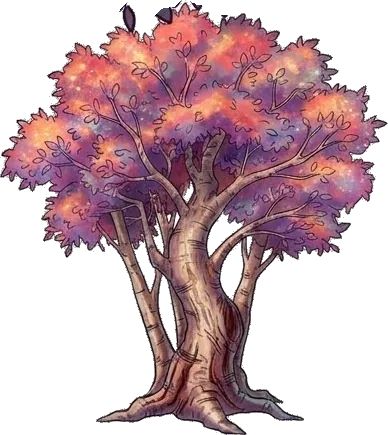
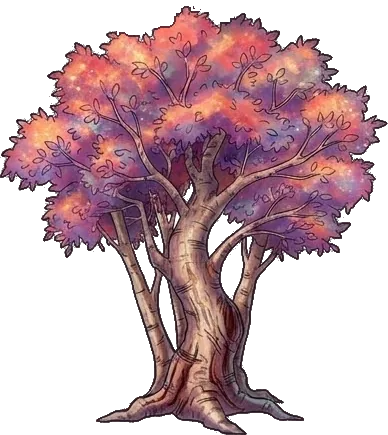
Bloodwood trees: remove stray dark leaves at the top of the small trees
Claude-Session: https://claude.ai/code/session_016iBLHZqgtWrdG3jWmShjEG

diff --git a/index.html b/index.html
@@ -49,7 +49,7 @@ body{display:flex;justify-content:center}
 
 <script>
 const ATLAS_SRC="assets/lum_atlas_v5.webp?v=b5d321dc8e";
-const ASSET_SRC={"ground": "assets/ground.webp?v=c61ee31f5b", "rock1": "assets/rock1.webp?v=4e677f3831", "rock2": "assets/rock2.webp?v=7dd0569dcb", "rock3": "assets/rock3.webp?v=56b967ad67", "rock4": "assets/rock4.webp?v=0d1af80431", "cottage": "assets/cottage.webp?v=698443d54d", "cottage_win": "assets/cottage_win.webp?v=7aa924e07f", "cottage_runes": "assets/cottage_runes.webp?v=fedf57d4f3", "well2": "assets/well2.webp?v=af52a369ca", "signpost": "assets/signpost.webp?v=58d6cbc3c9", "runetree": "assets/runetree.webp?v=882fef9528", "runetree_runes": "assets/runetree_runes.webp?v=32432a9566", "forest_bg": "assets/forest_bg.webp?v=48e7441431", "wellroom": "assets/wellroom.webp?v=4c525760c2", "wellroom_runes": "assets/wellroom_runes.webp?v=f42530f4f2", "wellroom_nobucket": "assets/wellroom_nobucket.webp?v=f47f13a7c8", "bucket_hat": "assets/bucket_hat.webp?v=a26814e8f8", "bucket_worn": "assets/bucket_worn.webp?v=a493a15958", "jelly_idle": "assets/jelly_idle.webp?v=71fed74136", "jelly_lunge": "assets/jelly_lunge.webp?v=92b0dc4343", "studyroom": "assets/studyroom.webp?v=a45726d36c", "grave0": "assets/grave0.webp?v=ad382cac7a", "grave1": "assets/grave1.webp?v=cefcf7ebac", "grave2": "assets/grave2.webp?v=9878aa3e55", "grave3": "assets/grave3.webp?v=a7a223d89e", "grave4": "assets/grave4.webp?v=a1028b8b90", "grave5": "assets/grave5.webp?v=0e02f5ad47", "grave6": "assets/grave6.webp?v=d0d80e2012", "grave7": "assets/grave7.webp?v=63f26d00aa", "grave8": "assets/grave8.webp?v=23e439ffe1", "grave9": "assets/grave9.webp?v=e07c5d7e34", "grave10": "assets/grave10.webp?v=fc3c50105c", "grave11": "assets/grave11.webp?v=8c2b60ce50", "bedroom": "assets/bedroom.webp?v=2225ec5dde", "sleep_cos": "assets/sleep_cos.webp?v=1b3af569b0", "sleep_lum": "assets/sleep_lum.webp?v=cd742dd436", "shoproom": "assets/shoproom.webp?v=79fc4857bd", "pondroom": "assets/pondroom.webp?v=50b5134a4a", "pcol_l": "assets/pcol_l.webp?v=e9bb5ccd70", "pcol_r": "assets/pcol_r.webp?v=dbb98c3bbf", "shed": "assets/shed.webp?v=543a9519de", "shedroom": "assets/shedroom.webp?v=f4136aef1d", "mimic": "assets/mimic.webp?v=b4eccb2cc0", "skel": "assets/skel.webp?v=6bdb7d42b9", "fokalur": "assets/fokalur.webp?v=32e8fdde12", "gate": "assets/gate.webp?v=b13c3b515c", "hut": "assets/hut.webp?v=93968f3788", "icon_potion": "assets/icon_potion.webp?v=ead5b0d648", "icon_pouch_seal": "assets/icon_pouch_seal.webp?v=f5895d2c6b", "icon_pouch": "assets/icon_pouch.webp?v=1228805e30", "icon_pouch_rose": "assets/icon_pouch_rose.webp?v=9ce159b238", "icon_pouch_crystal": "assets/icon_pouch_crystal.webp?v=0f51c72ecd", "icon_stick": "assets/icon_stick.webp?v=7da6e80825", "icon_rod": "assets/icon_rod.webp?v=500c8ad5de", "icon_staff_crystal": "assets/icon_staff_crystal.webp?v=2fadb8e7cf", "icon_staff_unicorn": "assets/icon_staff_unicorn.webp?v=19aca18031", "icon_sword_wood": "assets/icon_sword_wood.webp?v=51208a1356", "icon_sword_iron": "assets/icon_sword_iron.webp?v=5d4e663c8b", "icon_blade_dark": "assets/icon_blade_dark.webp?v=f39a2c7691", "icon_sword_long": "assets/icon_sword_long.webp?v=e2ed18cc86", "icon_sword_rune": "assets/icon_sword_rune.webp?v=0950c74e57", "icon_boots_leather": "assets/icon_boots_leather.webp?v=735092ee0b", "icon_boots_rubber_green": "assets/icon_boots_rubber_green.webp?v=698906df6b", "icon_boots_chain": "assets/icon_boots_chain.webp?v=024ff688e1", "icon_boots_plate": "assets/icon_boots_plate.webp?v=74076691fc", "icon_boots_winged": "assets/icon_boots_winged.webp?v=8c4553d310", "icon_cloak_apprentice": "assets/icon_cloak_apprentice.webp?v=1d1a6ddb1f", "icon_cloak_undine": "assets/icon_cloak_undine.webp?v=940789d635", "icon_cloak_green": "assets/icon_cloak_green.webp?v=76adbc8f83", "icon_cloak_grey": "assets/icon_cloak_grey.webp?v=d59e43efdb", "icon_cape_stars": "assets/icon_cape_stars.webp?v=d6e7732a4b", "icon_cape_lion_red": "assets/icon_cape_lion_red.webp?v=71308a4082", "icon_cape_lion_white": "assets/icon_cape_lion_white.webp?v=898859a526", "icon_cape_wings": "assets/icon_cape_wings.webp?v=2f7ea8ce7c", "slugking": "assets/slugking.webp?v=2f01c887f5", "jelly_idle_moss": "assets/jelly_idle_moss.webp?v=86cd24ecd3", "jelly_lunge_moss": "assets/jelly_lunge_moss.webp?v=bb5e70117f", "rskel": "assets/rskel.webp?v=c21afe8d1f", "wisp": "assets/wisp.webp?v=5b64d7379a", "vane": "assets/vane.webp?v=ddc4dc4c1e", "reaper": "assets/reaper.webp?v=2d19da05f6", "vanehut": "assets/vanehut.webp?v=27acb20d56", "ing_duskberry": "assets/ing_duskberry.webp?v=227fa12fae", "ing_dewberry": "assets/ing_dewberry.webp?v=7acbb8f24a", "ing_emberberry": "assets/ing_emberberry.webp?v=182192d25f", "ing_leavesB5": "assets/ing_leavesB5.webp?v=670e67f484", "ing_slime": "assets/ing_slime.webp?v=2d52e374b9", "ing_bones": "assets/ing_bones.webp?v=d2f5252a5b", "ing_twig": "assets/ing_twig.webp?v=ce341bff86", "tool_lantern": "assets/tool_lantern.webp?v=b0badf9ba0", "tool_lantern_ornate": "assets/tool_lantern_ornate.webp?v=6d22a8b9d8", "tool_rune_compass": "assets/tool_rune_compass.webp?v=3d79732549", "emote_grab": "assets/emote_grab.webp?v=0210ee5f87", "icon4_boots_fur": "assets/icon4_boots_fur.webp?v=257380106a", "spider": "assets/spider.webp?v=2082b59414", "bat": "assets/bat.webp?v=8384f2ed44", "fox": "assets/fox.webp?v=d1d5a33797", "flora": "assets/flora.webp?v=b2984d2fc2", "bramble_arch": "assets/bramble_arch.webp?v=f4f04cdb52", "bramble_hedge": "assets/bramble_hedge.webp?v=d4eccc44e3", "oak_big": "assets/oak_big.webp?v=a31af37e20", "webtree": "assets/webtree.webp?v=9c025b735f", "bwood_big": "assets/bwood_big.webp?v=cfb9ccc351", "bwood_small_a": "assets/bwood_small_a.webp?v=33d4334dc6", "bwood_small_b": "assets/bwood_small_b.webp?v=85c53e90a1", "bwood2_big": "assets/bwood2_big.webp?v=fdec0206c8", "bwood2_small_a": "assets/bwood2_small_a.webp?v=423d3b4f74", "bwood2_small_b": "assets/bwood2_small_b.webp?v=fc8a2edaac", "floor_st": "assets/floor_st.webp?v=c9eb0963f5", "jak": "assets/jak.webp?v=2e39bccff5", "icon_axe_wood": "assets/icon_axe_wood.webp?v=c531e310b1", "icon_axe_double_iron": "assets/icon_axe_double_iron.webp?v=1b08693001", "icon_axe_pearl": "assets/icon_axe_pearl.webp?v=1dfe41cb0b", "icon_axe_rune_gold": "assets/icon_axe_rune_gold.webp?v=aac528fea8", "icon_axe_jeweled": "assets/icon_axe_jeweled.webp?v=ea9c4a26e0", "icon_axe_broken": "assets/icon_axe_broken.webp?v=e1893bb616", "icon_axe_rusty": "assets/icon_axe_rusty.webp?v=1378b7b200", "icon_axe_leaf": "assets/icon_axe_leaf.webp?v=a4488d45e3", "icon_axe_bearded": "assets/icon_axe_bearded.webp?v=9af8e4a3ca", "icon_axe_steel": "assets/icon_axe_steel.webp?v=471dd46f27", "icon_axe_frost": "assets/icon_axe_frost.webp?v=302d3e06ea", "fox_red": "assets/fox_red.webp?v=9e66ea9c96", "jelly_idle_red": "assets/jelly_idle_red.webp?v=43ea16fbfd", "jelly_lunge_red": "assets/jelly_lunge_red.webp?v=d978f8f86e", "spider_dark": "assets/spider_dark.webp?v=dd9cccd6da", "thorngate": "assets/thorngate.webp?v=42c0f07e5d", "rose_bud": "assets/rose_bud.webp?v=bcef1e8f75", "rose_open": "assets/rose_open.webp?v=a0242c359d", "rose_twin": "assets/rose_twin.webp?v=e2297a7a91", "thdec_stickweb": "assets/thdec_stickweb.webp?v=a0b5d29ef3", "thdec_mushweb": "assets/thdec_mushweb.webp?v=ef66bb87d1", "thdec_litterweb": "assets/thdec_litterweb.webp?v=55159b7bc4", "thdec_fernweb": "assets/thdec_fernweb.webp?v=835280ac84", "thdec_smallweb": "assets/thdec_smallweb.webp?v=ca6202bcd2", "thdec_log": "assets/thdec_log.webp?v=366093c3a6", "icon3_mortar_clay": "assets/icon3_mortar_clay.webp?v=79428386fe", "icon4_sun_bottle": "assets/icon4_sun_bottle.webp?v=814504de18", "icon3_frost_bowl": "assets/icon3_frost_bowl.webp?v=0e086c9798", "icon3_pastel_powders": "assets/icon3_pastel_powders.webp?v=f431b705e2", "icon2_cross_wood": "assets/icon2_cross_wood.webp?v=161f6ec751", "icon2_key_gold": "assets/icon2_key_gold.webp?v=8ff3771dd5", "hollow": "assets/hollow.webp?v=dfa726d993", "dun5": "assets/dun5.webp?v=85029c1dff", "dun4": "assets/dun4.webp?v=b46827d446", "dun3": "assets/dun3.webp?v=7a88b0e860", "dun2": "assets/dun2.webp?v=21d09cc1d9", "dun1": "assets/dun1.webp?v=06e6dc99cc", "acc_heart_ring": "assets/acc_heart_ring.webp?v=5bc343177a", "acc_braid_ring": "assets/acc_braid_ring.webp?v=ef878f119c", "acc_moon_necklace": "assets/acc_moon_necklace.webp?v=e57426d856", "acc_slime_ring": "assets/acc_slime_ring.webp?v=01154880ae", "acc_amethyst": "assets/acc_amethyst.webp?v=459ad65fc8", "acc_sunmoon_medal": "assets/acc_sunmoon_medal.webp?v=0ebb4c8567", "acc_lion_ring": "assets/acc_lion_ring.webp?v=d803438586", "acc_shell_necklace": "assets/acc_shell_necklace.webp?v=eb822dcaef", "acc_wing_brooch": "assets/acc_wing_brooch.webp?v=9e7d87c59b", "acc_moonstone_ring": "assets/acc_moonstone_ring.webp?v=ffda303e15", "sfg_chest": "assets/sfg_chest.webp?v=a472570ab1", "sfg_table": "assets/sfg_table.webp?v=013527fc10", "sfg_tableleg": "assets/sfg_tableleg.webp?v=1ad782e189", "sfg_side": "assets/sfg_side.webp?v=a4a3f2284f", "sfg_lectern": "assets/sfg_lectern.webp?v=c0df8fec54", "sfg_roots": "assets/sfg_roots.webp?v=c59040b279", "birch1": "assets/birch1.webp?v=b0ea24106f", "birch2": "assets/birch2.webp?v=2dd033eac7", "birch3": "assets/birch3.webp?v=e64553ecbd", "willow1": "assets/willow1.webp?v=98786f0c84", "cobble_strip": "assets/cobble_strip.webp?v=284855081b", "cobble_runes": "assets/cobble_runes.webp?v=07a4cad76e", "bridge0": "assets/bridge0.webp?v=c930b521f8", "bridge1": "assets/bridge1.webp?v=8e675faec7", "bridge2": "assets/bridge2.webp?v=65bc61c470", "bridge3": "assets/bridge3.webp?v=153e2f5c59", "bridge4": "assets/bridge4.webp?v=b6ff9fef90", "drained0": "assets/drained0.webp?v=dee278254d", "drained1": "assets/drained1.webp?v=c38f30e4a2", "drained2": "assets/drained2.webp?v=c2abd46393", "drained3": "assets/drained3.webp?v=d0408dce90", "drained4": "assets/drained4.webp?v=49fe89ce29", "drained5": "assets/drained5.webp?v=8b2a410ea1", "drained6": "assets/drained6.webp?v=b735f267b4", "drained7": "assets/drained7.webp?v=aefa2993f7", "drained8": "assets/drained8.webp?v=e853833327", "drained9": "assets/drained9.webp?v=9a5541fe81", "shrub0": "assets/shrub0.webp?v=f9f7df7aac", "shrub1": "assets/shrub1.webp?v=f4825b0d48", "shrub2": "assets/shrub2.webp?v=b0edbbd898", "shrub3": "assets/shrub3.webp?v=bc7a089a89", "shrub4": "assets/shrub4.webp?v=bb66d76d2e", "shrub5": "assets/shrub5.webp?v=ffbae35557", "shrub6": "assets/shrub6.webp?v=1c234a4c17", "shrub7": "assets/shrub7.webp?v=5b1a8119f9", "shrub8": "assets/shrub8.webp?v=a937edbbf3", "shrub9": "assets/shrub9.webp?v=dfb2f54698", "shrub10": "assets/shrub10.webp?v=5c2dd38d41", "shrub11": "assets/shrub11.webp?v=3faa1b4736", "bird0": "assets/bird0.webp?v=7d5d2404e5", "bird1": "assets/bird1.webp?v=eb12c73b19", "bird2": "assets/bird2.webp?v=ca02415237", "bird3": "assets/bird3.webp?v=42efa7eb02", "bird4": "assets/bird4.webp?v=7a9329e236", "bird5": "assets/bird5.webp?v=90bd3aa6a3", "bird6": "assets/bird6.webp?v=0a764f8ed6", "bird7": "assets/bird7.webp?v=04e3aa6d61", "bird8": "assets/bird8.webp?v=11cac9e48b", "bird9": "assets/bird9.webp?v=209732f271", "bird10": "assets/bird10.webp?v=518afeccc0", "bird11": "assets/bird11.webp?v=41c18c5083", "bird12": "assets/bird12.webp?v=9250bb7453", "topi_cube": "assets/topi_cube.webp?v=1fc6082fd5", "topi_ball": "assets/topi_ball.webp?v=78a3cfcc82", "topi_spiral": "assets/topi_spiral.webp?v=d6ac5cd38a", "topi_cone": "assets/topi_cone.webp?v=67e11f2900"};
+const ASSET_SRC={"ground": "assets/ground.webp?v=c61ee31f5b", "rock1": "assets/rock1.webp?v=4e677f3831", "rock2": "assets/rock2.webp?v=7dd0569dcb", "rock3": "assets/rock3.webp?v=56b967ad67", "rock4": "assets/rock4.webp?v=0d1af80431", "cottage": "assets/cottage.webp?v=698443d54d", "cottage_win": "assets/cottage_win.webp?v=7aa924e07f", "cottage_runes": "assets/cottage_runes.webp?v=fedf57d4f3", "well2": "assets/well2.webp?v=af52a369ca", "signpost": "assets/signpost.webp?v=58d6cbc3c9", "runetree": "assets/runetree.webp?v=882fef9528", "runetree_runes": "assets/runetree_runes.webp?v=32432a9566", "forest_bg": "assets/forest_bg.webp?v=48e7441431", "wellroom": "assets/wellroom.webp?v=4c525760c2", "wellroom_runes": "assets/wellroom_runes.webp?v=f42530f4f2", "wellroom_nobucket": "assets/wellroom_nobucket.webp?v=f47f13a7c8", "bucket_hat": "assets/bucket_hat.webp?v=a26814e8f8", "bucket_worn": "assets/bucket_worn.webp?v=a493a15958", "jelly_idle": "assets/jelly_idle.webp?v=71fed74136", "jelly_lunge": "assets/jelly_lunge.webp?v=92b0dc4343", "studyroom": "assets/studyroom.webp?v=a45726d36c", "grave0": "assets/grave0.webp?v=ad382cac7a", "grave1": "assets/grave1.webp?v=cefcf7ebac", "grave2": "assets/grave2.webp?v=9878aa3e55", "grave3": "assets/grave3.webp?v=a7a223d89e", "grave4": "assets/grave4.webp?v=a1028b8b90", "grave5": "assets/grave5.webp?v=0e02f5ad47", "grave6": "assets/grave6.webp?v=d0d80e2012", "grave7": "assets/grave7.webp?v=63f26d00aa", "grave8": "assets/grave8.webp?v=23e439ffe1", "grave9": "assets/grave9.webp?v=e07c5d7e34", "grave10": "assets/grave10.webp?v=fc3c50105c", "grave11": "assets/grave11.webp?v=8c2b60ce50", "bedroom": "assets/bedroom.webp?v=2225ec5dde", "sleep_cos": "assets/sleep_cos.webp?v=1b3af569b0", "sleep_lum": "assets/sleep_lum.webp?v=cd742dd436", "shoproom": "assets/shoproom.webp?v=79fc4857bd", "pondroom": "assets/pondroom.webp?v=50b5134a4a", "pcol_l": "assets/pcol_l.webp?v=e9bb5ccd70", "pcol_r": "assets/pcol_r.webp?v=dbb98c3bbf", "shed": "assets/shed.webp?v=543a9519de", "shedroom": "assets/shedroom.webp?v=f4136aef1d", "mimic": "assets/mimic.webp?v=b4eccb2cc0", "skel": "assets/skel.webp?v=6bdb7d42b9", "fokalur": "assets/fokalur.webp?v=32e8fdde12", "gate": "assets/gate.webp?v=b13c3b515c", "hut": "assets/hut.webp?v=93968f3788", "icon_potion": "assets/icon_potion.webp?v=ead5b0d648", "icon_pouch_seal": "assets/icon_pouch_seal.webp?v=f5895d2c6b", "icon_pouch": "assets/icon_pouch.webp?v=1228805e30", "icon_pouch_rose": "assets/icon_pouch_rose.webp?v=9ce159b238", "icon_pouch_crystal": "assets/icon_pouch_crystal.webp?v=0f51c72ecd", "icon_stick": "assets/icon_stick.webp?v=7da6e80825", "icon_rod": "assets/icon_rod.webp?v=500c8ad5de", "icon_staff_crystal": "assets/icon_staff_crystal.webp?v=2fadb8e7cf", "icon_staff_unicorn": "assets/icon_staff_unicorn.webp?v=19aca18031", "icon_sword_wood": "assets/icon_sword_wood.webp?v=51208a1356", "icon_sword_iron": "assets/icon_sword_iron.webp?v=5d4e663c8b", "icon_blade_dark": "assets/icon_blade_dark.webp?v=f39a2c7691", "icon_sword_long": "assets/icon_sword_long.webp?v=e2ed18cc86", "icon_sword_rune": "assets/icon_sword_rune.webp?v=0950c74e57", "icon_boots_leather": "assets/icon_boots_leather.webp?v=735092ee0b", "icon_boots_rubber_green": "assets/icon_boots_rubber_green.webp?v=698906df6b", "icon_boots_chain": "assets/icon_boots_chain.webp?v=024ff688e1", "icon_boots_plate": "assets/icon_boots_plate.webp?v=74076691fc", "icon_boots_winged": "assets/icon_boots_winged.webp?v=8c4553d310", "icon_cloak_apprentice": "assets/icon_cloak_apprentice.webp?v=1d1a6ddb1f", "icon_cloak_undine": "assets/icon_cloak_undine.webp?v=940789d635", "icon_cloak_green": "assets/icon_cloak_green.webp?v=76adbc8f83", "icon_cloak_grey": "assets/icon_cloak_grey.webp?v=d59e43efdb", "icon_cape_stars": "assets/icon_cape_stars.webp?v=d6e7732a4b", "icon_cape_lion_red": "assets/icon_cape_lion_red.webp?v=71308a4082", "icon_cape_lion_white": "assets/icon_cape_lion_white.webp?v=898859a526", "icon_cape_wings": "assets/icon_cape_wings.webp?v=2f7ea8ce7c", "slugking": "assets/slugking.webp?v=2f01c887f5", "jelly_idle_moss": "assets/jelly_idle_moss.webp?v=86cd24ecd3", "jelly_lunge_moss": "assets/jelly_lunge_moss.webp?v=bb5e70117f", "rskel": "assets/rskel.webp?v=c21afe8d1f", "wisp": "assets/wisp.webp?v=5b64d7379a", "vane": "assets/vane.webp?v=ddc4dc4c1e", "reaper": "assets/reaper.webp?v=2d19da05f6", "vanehut": "assets/vanehut.webp?v=27acb20d56", "ing_duskberry": "assets/ing_duskberry.webp?v=227fa12fae", "ing_dewberry": "assets/ing_dewberry.webp?v=7acbb8f24a", "ing_emberberry": "assets/ing_emberberry.webp?v=182192d25f", "ing_leavesB5": "assets/ing_leavesB5.webp?v=670e67f484", "ing_slime": "assets/ing_slime.webp?v=2d52e374b9", "ing_bones": "assets/ing_bones.webp?v=d2f5252a5b", "ing_twig": "assets/ing_twig.webp?v=ce341bff86", "tool_lantern": "assets/tool_lantern.webp?v=b0badf9ba0", "tool_lantern_ornate": "assets/tool_lantern_ornate.webp?v=6d22a8b9d8", "tool_rune_compass": "assets/tool_rune_compass.webp?v=3d79732549", "emote_grab": "assets/emote_grab.webp?v=0210ee5f87", "icon4_boots_fur": "assets/icon4_boots_fur.webp?v=257380106a", "spider": "assets/spider.webp?v=2082b59414", "bat": "assets/bat.webp?v=8384f2ed44", "fox": "assets/fox.webp?v=d1d5a33797", "flora": "assets/flora.webp?v=b2984d2fc2", "bramble_arch": "assets/bramble_arch.webp?v=f4f04cdb52", "bramble_hedge": "assets/bramble_hedge.webp?v=d4eccc44e3", "oak_big": "assets/oak_big.webp?v=a31af37e20", "webtree": "assets/webtree.webp?v=9c025b735f", "bwood_big": "assets/bwood_big.webp?v=cfb9ccc351", "bwood_small_a": "assets/bwood_small_a.webp?v=42a6989f45", "bwood_small_b": "assets/bwood_small_b.webp?v=b3c84a95b2", "bwood2_big": "assets/bwood2_big.webp?v=fdec0206c8", "bwood2_small_a": "assets/bwood2_small_a.webp?v=423d3b4f74", "bwood2_small_b": "assets/bwood2_small_b.webp?v=66703a07cb", "floor_st": "assets/floor_st.webp?v=c9eb0963f5", "jak": "assets/jak.webp?v=2e39bccff5", "icon_axe_wood": "assets/icon_axe_wood.webp?v=c531e310b1", "icon_axe_double_iron": "assets/icon_axe_double_iron.webp?v=1b08693001", "icon_axe_pearl": "assets/icon_axe_pearl.webp?v=1dfe41cb0b", "icon_axe_rune_gold": "assets/icon_axe_rune_gold.webp?v=aac528fea8", "icon_axe_jeweled": "assets/icon_axe_jeweled.webp?v=ea9c4a26e0", "icon_axe_broken": "assets/icon_axe_broken.webp?v=e1893bb616", "icon_axe_rusty": "assets/icon_axe_rusty.webp?v=1378b7b200", "icon_axe_leaf": "assets/icon_axe_leaf.webp?v=a4488d45e3", "icon_axe_bearded": "assets/icon_axe_bearded.webp?v=9af8e4a3ca", "icon_axe_steel": "assets/icon_axe_steel.webp?v=471dd46f27", "icon_axe_frost": "assets/icon_axe_frost.webp?v=302d3e06ea", "fox_red": "assets/fox_red.webp?v=9e66ea9c96", "jelly_idle_red": "assets/jelly_idle_red.webp?v=43ea16fbfd", "jelly_lunge_red": "assets/jelly_lunge_red.webp?v=d978f8f86e", "spider_dark": "assets/spider_dark.webp?v=dd9cccd6da", "thorngate": "assets/thorngate.webp?v=42c0f07e5d", "rose_bud": "assets/rose_bud.webp?v=bcef1e8f75", "rose_open": "assets/rose_open.webp?v=a0242c359d", "rose_twin": "assets/rose_twin.webp?v=e2297a7a91", "thdec_stickweb": "assets/thdec_stickweb.webp?v=a0b5d29ef3", "thdec_mushweb": "assets/thdec_mushweb.webp?v=ef66bb87d1", "thdec_litterweb": "assets/thdec_litterweb.webp?v=55159b7bc4", "thdec_fernweb": "assets/thdec_fernweb.webp?v=835280ac84", "thdec_smallweb": "assets/thdec_smallweb.webp?v=ca6202bcd2", "thdec_log": "assets/thdec_log.webp?v=366093c3a6", "icon3_mortar_clay": "assets/icon3_mortar_clay.webp?v=79428386fe", "icon4_sun_bottle": "assets/icon4_sun_bottle.webp?v=814504de18", "icon3_frost_bowl": "assets/icon3_frost_bowl.webp?v=0e086c9798", "icon3_pastel_powders": "assets/icon3_pastel_powders.webp?v=f431b705e2", "icon2_cross_wood": "assets/icon2_cross_wood.webp?v=161f6ec751", "icon2_key_gold": "assets/icon2_key_gold.webp?v=8ff3771dd5", "hollow": "assets/hollow.webp?v=dfa726d993", "dun5": "assets/dun5.webp?v=85029c1dff", "dun4": "assets/dun4.webp?v=b46827d446", "dun3": "assets/dun3.webp?v=7a88b0e860", "dun2": "assets/dun2.webp?v=21d09cc1d9", "dun1": "assets/dun1.webp?v=06e6dc99cc", "acc_heart_ring": "assets/acc_heart_ring.webp?v=5bc343177a", "acc_braid_ring": "assets/acc_braid_ring.webp?v=ef878f119c", "acc_moon_necklace": "assets/acc_moon_necklace.webp?v=e57426d856", "acc_slime_ring": "assets/acc_slime_ring.webp?v=01154880ae", "acc_amethyst": "assets/acc_amethyst.webp?v=459ad65fc8", "acc_sunmoon_medal": "assets/acc_sunmoon_medal.webp?v=0ebb4c8567", "acc_lion_ring": "assets/acc_lion_ring.webp?v=d803438586", "acc_shell_necklace": "assets/acc_shell_necklace.webp?v=eb822dcaef", "acc_wing_brooch": "assets/acc_wing_brooch.webp?v=9e7d87c59b", "acc_moonstone_ring": "assets/acc_moonstone_ring.webp?v=ffda303e15", "sfg_chest": "assets/sfg_chest.webp?v=a472570ab1", "sfg_table": "assets/sfg_table.webp?v=013527fc10", "sfg_tableleg": "assets/sfg_tableleg.webp?v=1ad782e189", "sfg_side": "assets/sfg_side.webp?v=a4a3f2284f", "sfg_lectern": "assets/sfg_lectern.webp?v=c0df8fec54", "sfg_roots": "assets/sfg_roots.webp?v=c59040b279", "birch1": "assets/birch1.webp?v=b0ea24106f", "birch2": "assets/birch2.webp?v=2dd033eac7", "birch3": "assets/birch3.webp?v=e64553ecbd", "willow1": "assets/willow1.webp?v=98786f0c84", "cobble_strip": "assets/cobble_strip.webp?v=284855081b", "cobble_runes": "assets/cobble_runes.webp?v=07a4cad76e", "bridge0": "assets/bridge0.webp?v=c930b521f8", "bridge1": "assets/bridge1.webp?v=8e675faec7", "bridge2": "assets/bridge2.webp?v=65bc61c470", "bridge3": "assets/bridge3.webp?v=153e2f5c59", "bridge4": "assets/bridge4.webp?v=b6ff9fef90", "drained0": "assets/drained0.webp?v=dee278254d", "drained1": "assets/drained1.webp?v=c38f30e4a2", "drained2": "assets/drained2.webp?v=c2abd46393", "drained3": "assets/drained3.webp?v=d0408dce90", "drained4": "assets/drained4.webp?v=49fe89ce29", "drained5": "assets/drained5.webp?v=8b2a410ea1", "drained6": "assets/drained6.webp?v=b735f267b4", "drained7": "assets/drained7.webp?v=aefa2993f7", "drained8": "assets/drained8.webp?v=e853833327", "drained9": "assets/drained9.webp?v=9a5541fe81", "shrub0": "assets/shrub0.webp?v=f9f7df7aac", "shrub1": "assets/shrub1.webp?v=f4825b0d48", "shrub2": "assets/shrub2.webp?v=b0edbbd898", "shrub3": "assets/shrub3.webp?v=bc7a089a89", "shrub4": "assets/shrub4.webp?v=bb66d76d2e", "shrub5": "assets/shrub5.webp?v=ffbae35557", "shrub6": "assets/shrub6.webp?v=1c234a4c17", "shrub7": "assets/shrub7.webp?v=5b1a8119f9", "shrub8": "assets/shrub8.webp?v=a937edbbf3", "shrub9": "assets/shrub9.webp?v=dfb2f54698", "shrub10": "assets/shrub10.webp?v=5c2dd38d41", "shrub11": "assets/shrub11.webp?v=3faa1b4736", "bird0": "assets/bird0.webp?v=7d5d2404e5", "bird1": "assets/bird1.webp?v=eb12c73b19", "bird2": "assets/bird2.webp?v=ca02415237", "bird3": "assets/bird3.webp?v=42efa7eb02", "bird4": "assets/bird4.webp?v=7a9329e236", "bird5": "assets/bird5.webp?v=90bd3aa6a3", "bird6": "assets/bird6.webp?v=0a764f8ed6", "bird7": "assets/bird7.webp?v=04e3aa6d61", "bird8": "assets/bird8.webp?v=11cac9e48b", "bird9": "assets/bird9.webp?v=209732f271", "bird10": "assets/bird10.webp?v=518afeccc0", "bird11": "assets/bird11.webp?v=41c18c5083", "bird12": "assets/bird12.webp?v=9250bb7453", "topi_cube": "assets/topi_cube.webp?v=1fc6082fd5", "topi_ball": "assets/topi_ball.webp?v=78a3cfcc82", "topi_spiral": "assets/topi_spiral.webp?v=d6ac5cd38a", "topi_cone": "assets/topi_cone.webp?v=67e11f2900"};
 const COSMIC_SRC="assets/cosmic_atlas.webp?v=f87006b14b";
 const SLUG_SRC="assets/slug_atlas.webp?v=0aa482f919";
 (()=>{
